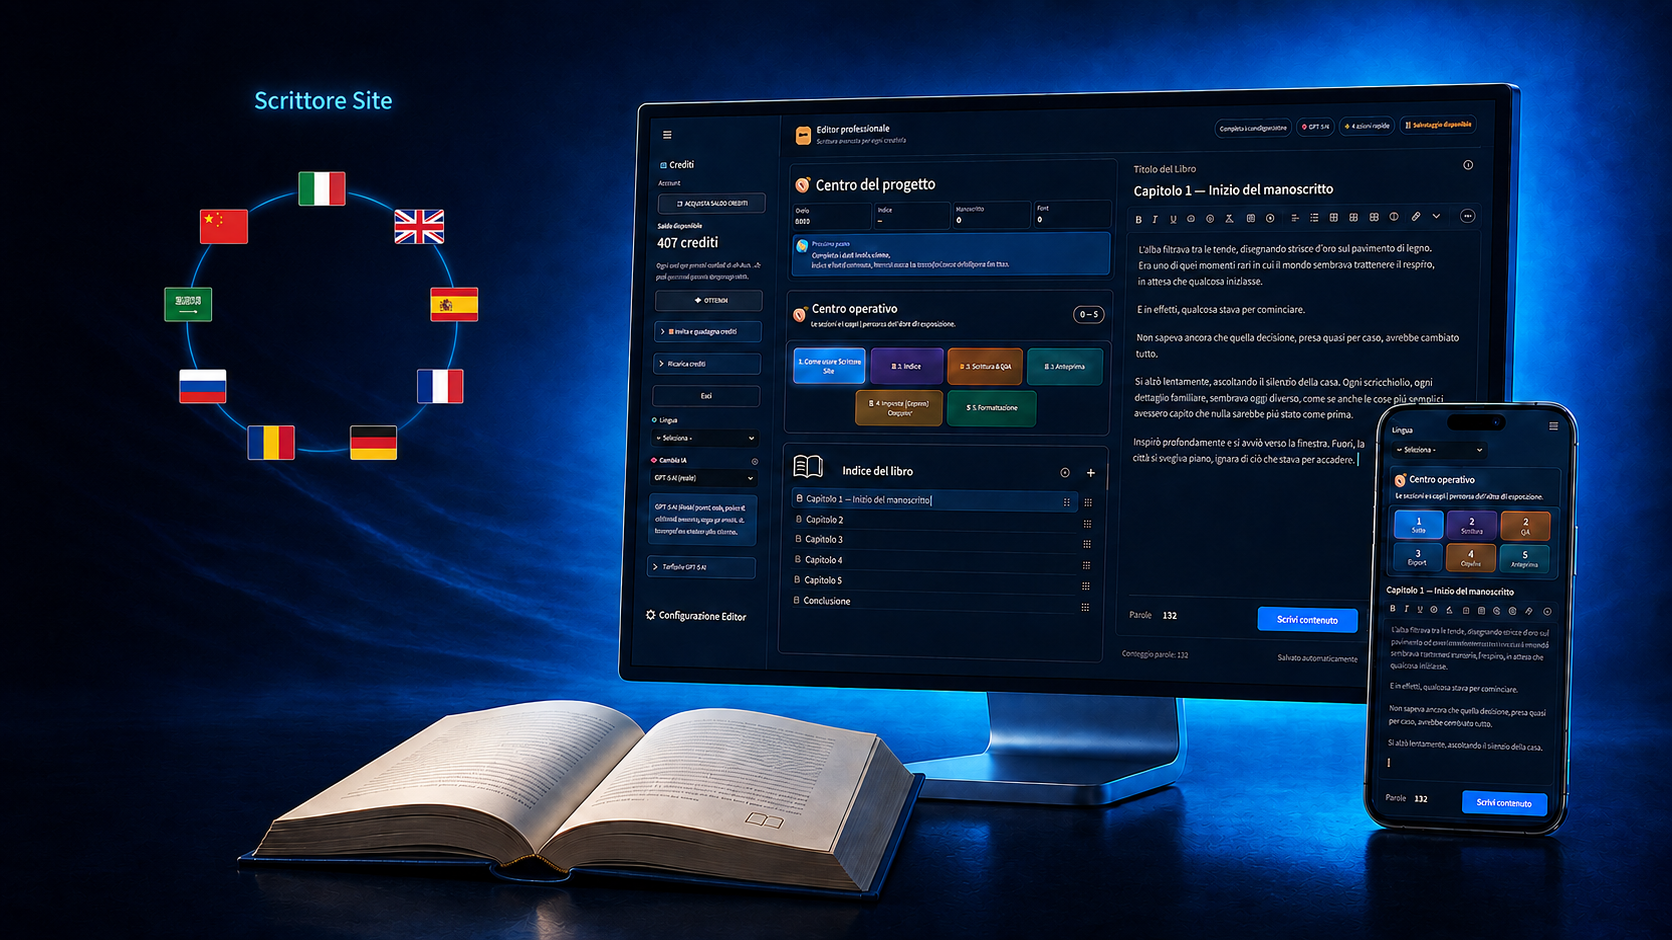
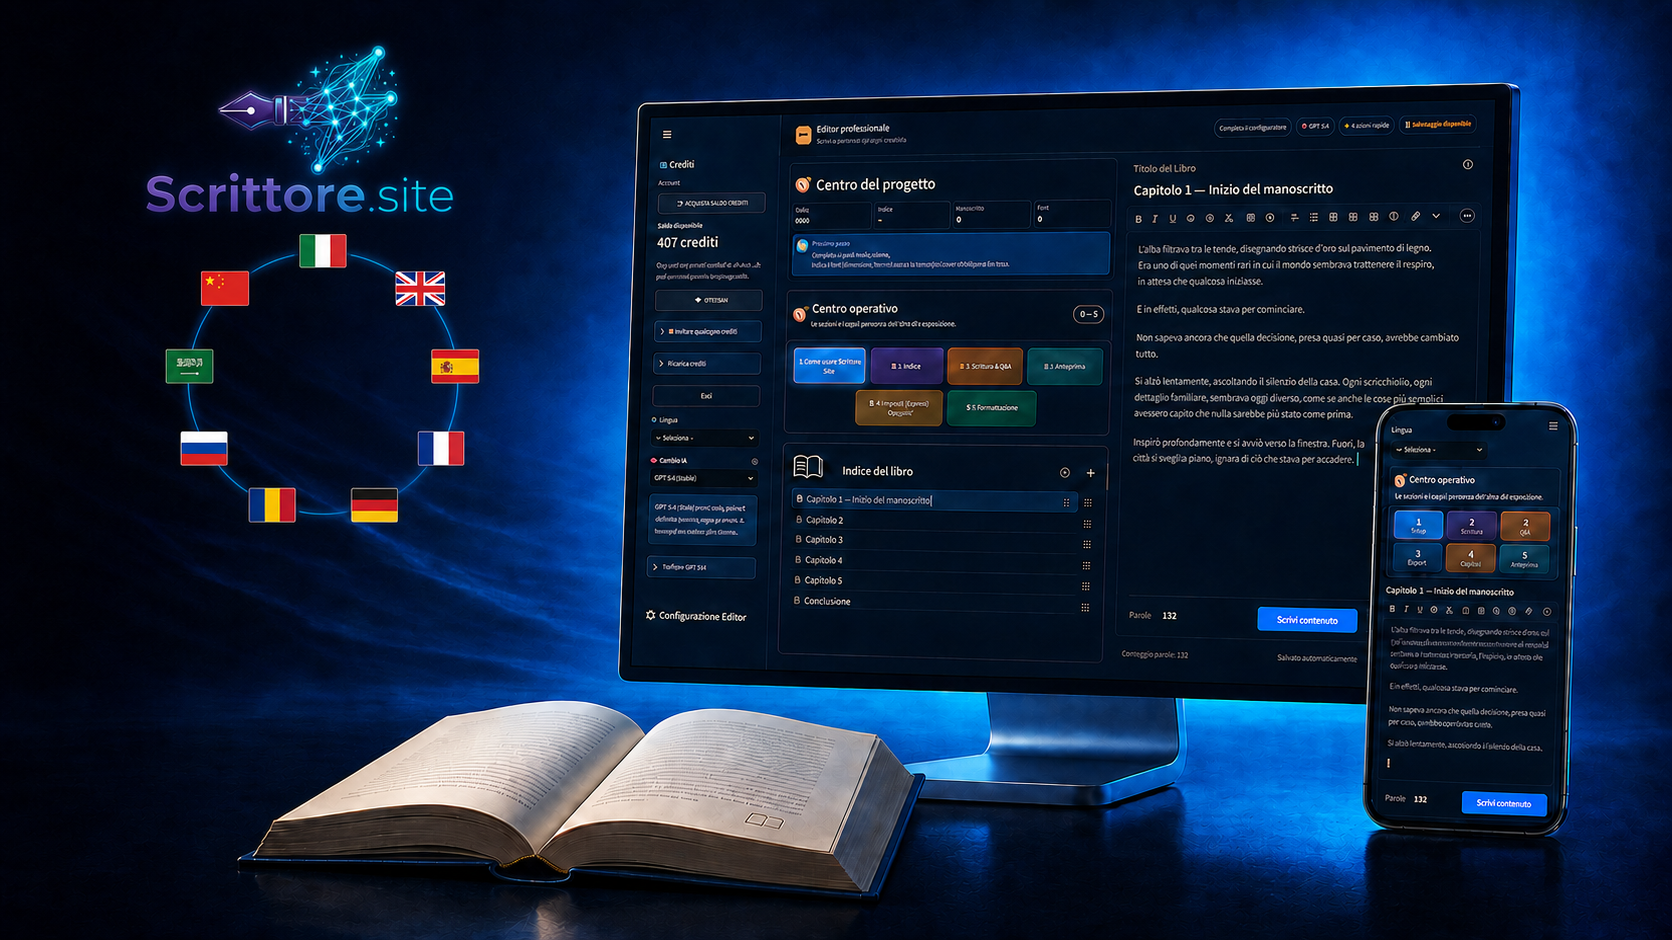
Aggiorna identita visiva e vantaggi della home

diff --git a/commercial_layer.py b/commercial_layer.py
@@ -1092,6 +1092,20 @@ HOME_COMPACT_COPY = {
     "中文": {"core": ("所需功能，一目了然", "从想法到书稿，只需四个清晰步骤。"), "cards": (("1", "设置项目", "语言、标题、类型、读者和目标。"), ("2", "创建目录", "资料来源、专业结构和针对性优化。"), ("3", "写作并改进", "一个小节、一章或整本书，由你决定。"), ("4", "检查并导出", "预览、检查、Word、PDF、KDP 和 CSV。")), "steps": (("1", "定义", "填写引导式简报。"), ("2", "写作", "生成、阅读和编辑。"), ("3", "保存", "按需保存并导出。")), "details": "全部功能与详细说明", "optional": "个性化与引导暂停（可选）"},
 }
 
+# Vantaggi esplicitati con misura: non sostituisce le capacità di una chat,
+# ma chiarisce il valore del flusso editoriale integrato di Scrittore Site.
+HOME_ADVANTAGES_COPY = {
+    "Italiano": ("I vantaggi di Scrittore Site", "Una classica chat AI può aiutare a scrivere. Scrittore Site trasforma quell'aiuto in un progetto editoriale ordinato e controllabile.", (("🧭", "Un percorso, non una pagina vuota", "Brief, fonti, indice, stesura e revisione restano collegati nello stesso progetto."), ("💾", "Memoria e recupero del lavoro", "Sidebar, indice e testi possono essere salvati, riaperti ed esportati in un CSV completo."), ("🔎", "Controlli editoriali nel punto giusto", "Coerenza, completezza, ripetizioni e qualità vengono verificati prima dell'esportazione."), ("📚", "Un risultato pronto da lavorare", "Anteprima, lettore vocale, Word, PDF e formattazione KDP aiutano a passare dalla bozza al manoscritto."))),
+    "English": ("Why choose Scrittore Site", "A standard AI chat can help you write. Scrittore Site turns that help into an organized, controllable editorial project.", (("🧭", "A workflow, not a blank page", "Brief, sources, outline, writing and review remain connected in one project."), ("💾", "Memory and project recovery", "Sidebar, outline and text can be saved, reopened and exported in a complete CSV."), ("🔎", "Editorial checks at the right time", "Consistency, completeness, repetition and quality are checked before export."), ("📚", "A manuscript ready to work on", "Preview, voice reader, Word, PDF and KDP formatting help move from draft to manuscript."))),
+    "Español": ("Las ventajas de Scrittore Site", "Una chat de IA clásica puede ayudarte a escribir. Scrittore Site convierte esa ayuda en un proyecto editorial ordenado y controlable.", (("🧭", "Un recorrido, no una página vacía", "Briefing, fuentes, índice, redacción y revisión permanecen conectados en un mismo proyecto."), ("💾", "Memoria y recuperación", "Barra lateral, índice y textos se pueden guardar, reabrir y exportar en un CSV completo."), ("🔎", "Controles editoriales en el momento adecuado", "Coherencia, integridad, repeticiones y calidad se comprueban antes de exportar."), ("📚", "Un manuscrito listo para trabajar", "Vista previa, lector de voz, Word, PDF y formato KDP ayudan a pasar del borrador al manuscrito."))),
+    "Français": ("Les avantages de Scrittore Site", "Une conversation IA classique peut aider à écrire. Scrittore Site transforme cette aide en projet éditorial ordonné et contrôlable.", (("🧭", "Un parcours, pas une page vide", "Brief, sources, plan, rédaction et révision restent liés dans un même projet."), ("💾", "Mémoire et reprise du projet", "Barre latérale, plan et textes peuvent être enregistrés, rouverts et exportés dans un CSV complet."), ("🔎", "Des contrôles éditoriaux au bon moment", "Cohérence, complétude, répétitions et qualité sont vérifiées avant l'export."), ("📚", "Un manuscrit prêt à être travaillé", "Aperçu, lecteur vocal, Word, PDF et mise en forme KDP aident à passer du brouillon au manuscrit."))),
+    "Deutsch": ("Die Vorteile von Scrittore Site", "Ein gewöhnlicher KI-Chat kann beim Schreiben helfen. Scrittore Site macht daraus ein geordnetes, kontrollierbares Redaktionsprojekt.", (("🧭", "Ein Ablauf statt einer leeren Seite", "Briefing, Quellen, Gliederung, Schreiben und Überarbeitung bleiben in einem Projekt verbunden."), ("💾", "Speichern und Wiederaufnehmen", "Seitenleiste, Gliederung und Texte können gespeichert, erneut geöffnet und als vollständige CSV exportiert werden."), ("🔎", "Redaktionelle Kontrolle zum richtigen Zeitpunkt", "Kohärenz, Vollständigkeit, Wiederholungen und Qualität werden vor dem Export geprüft."), ("📚", "Ein Manuskript zur Weiterarbeit", "Vorschau, Sprachleser, Word, PDF und KDP-Formatierung führen vom Entwurf zum Manuskript."))),
+    "Română": ("Avantajele Scrittore Site", "O conversație AI obișnuită te poate ajuta să scrii. Scrittore Site transformă acel ajutor într-un proiect editorial ordonat și controlabil.", (("🧭", "Un parcurs, nu o pagină goală", "Brief-ul, sursele, cuprinsul, scrierea și revizia rămân legate în același proiect."), ("💾", "Memorie și reluarea proiectului", "Bara laterală, cuprinsul și textele pot fi salvate, redeschise și exportate într-un CSV complet."), ("🔎", "Controale editoriale la momentul potrivit", "Coerența, completitudinea, repetițiile și calitatea sunt verificate înainte de export."), ("📚", "Un manuscris gata de lucru", "Previzualizarea, cititorul vocal, Word, PDF și formatarea KDP ajută trecerea de la schiță la manuscris."))),
+    "Русский": ("Преимущества Scrittore Site", "Обычный чат с ИИ может помочь писать. Scrittore Site превращает эту помощь в упорядоченный и контролируемый редакционный проект.", (("🧭", "Маршрут вместо пустой страницы", "Бриф, источники, план, текст и редактура остаются связанными в одном проекте."), ("💾", "Память и восстановление проекта", "Панель, план и тексты можно сохранить, открыть снова и экспортировать в полном CSV."), ("🔎", "Редакторские проверки вовремя", "Связность, полнота, повторы и качество проверяются перед экспортом."), ("📚", "Рукопись, готовая к работе", "Предпросмотр, голосовое чтение, Word, PDF и форматирование KDP помогают перейти от черновика к рукописи."))),
+    "العربية": ("مزايا Scrittore Site", "يمكن لمحادثة ذكاء اصطناعي عادية أن تساعدك في الكتابة. يحوّل Scrittore Site هذه المساعدة إلى مشروع تحريري منظم وقابل للتحكم.", (("🧭", "مسار لا صفحة فارغة", "يبقى الموجز والمصادر والفهرس والكتابة والمراجعة مترابطين في مشروع واحد."), ("💾", "ذاكرة واستعادة للمشروع", "يمكن حفظ الشريط الجانبي والفهرس والنصوص وإعادة فتحها وتصديرها في CSV كامل."), ("🔎", "فحوص تحريرية في الوقت المناسب", "يتم التحقق من الاتساق والاكتمال والتكرار والجودة قبل التصدير."), ("📚", "مخطوطة جاهزة للعمل", "المعاينة والقارئ الصوتي وWord وPDF وتنسيق KDP تساعدك على الانتقال من المسودة إلى المخطوطة."))),
+    "中文": ("Scrittore Site 的优势", "普通 AI 聊天可以协助写作。Scrittore Site 则将这种协助变成有序、可掌控的编辑项目。", (("🧭", "完整流程，而非空白页面", "简报、资料、目录、写作和审阅都在同一个项目中保持关联。"), ("💾", "记忆与项目恢复", "侧边栏、目录和文本可保存、重新打开并导出为完整 CSV。"), ("🔎", "适时的编辑检查", "导出前可检查连贯性、完整性、重复和质量。"), ("📚", "可继续打磨的书稿", "预览、语音阅读、Word、PDF 与 KDP 排版帮助你从草稿走向书稿。"))),
+}
+
 # Menu di orientamento della home: porta alle sezioni già presenti senza
 # introdurre nuove pagine né modificare login, crediti o flusso di acquisto.
 HOME_NAVIGATION = {
@@ -1156,9 +1170,9 @@ def _landing_page() -> None:
     st.markdown(
         """
         <style>
-          .stApp, [data-testid="stAppViewContainer"] {background:radial-gradient(circle at 8% 13%,rgba(147,197,253,.47),transparent 28%),radial-gradient(circle at 90% 8%,rgba(186,230,253,.62),transparent 30%),radial-gradient(circle at 76% 78%,rgba(219,234,254,.8),transparent 36%),linear-gradient(135deg,#edf7ff 0%,#f8fcff 47%,#e2f2ff 100%) !important; color:#102a43}
-          section.main > div.block-container {max-width:1380px !important; padding:.28rem 2.4rem 4.4rem !important}
-          [data-testid="stHorizontalBlock"]:has([data-testid="stSelectbox"]) {margin-top:0 !important; margin-bottom:.15rem !important}
+          .stApp, [data-testid="stAppViewContainer"] {background:radial-gradient(circle at 86% 8%,rgba(15,107,185,.5),transparent 27%),radial-gradient(circle at 13% 69%,rgba(13,83,145,.35),transparent 31%),linear-gradient(135deg,#030b15 0%,#071a2d 48%,#092540 100%) !important; color:#e7f2ff}
+          section.main > div.block-container {max-width:1380px !important; padding:0 2.4rem 4.4rem !important}
+          [data-testid="stHorizontalBlock"]:has([data-testid="stSelectbox"]) {margin-top:-.72rem !important; margin-bottom:.1rem !important}
           [data-testid="stHorizontalBlock"]:has([data-testid="stSelectbox"]) [data-testid="stSelectbox"] {margin-top:0 !important}
           .ss-hero-copy {padding:2.15rem .9rem .9rem 1.35rem; color:#102a43}
           .ss-kicker {font-weight:800; font-size:1.03rem; color:#1689e8; margin-bottom:1.1rem; letter-spacing:.01em}
@@ -1271,10 +1285,14 @@ def _landing_page() -> None:
           .ss-compact-step {display:flex; align-items:center; gap:.7rem; text-align:left; padding:.8rem .9rem; border:1px solid #c8ddeb; border-radius:14px; background:rgba(255,255,255,.9); color:#486581; font-size:.86rem; line-height:1.35}
           .ss-compact-step b {display:block; color:#102a43; font-size:.95rem}.ss-compact-number {flex:0 0 1.8rem; height:1.8rem; border-radius:50%; display:grid; place-items:center; background:#1689e8; color:#fff; font-weight:900}
           .ss-home-detail-caption {max-width:850px; margin:.1rem auto .7rem; text-align:center; color:#486581; font-size:.88rem}
+          .ss-advantages-intro {max-width:850px; margin:.25rem auto .8rem; text-align:center; color:#b9d4e8; line-height:1.48}
+          .ss-advantages {display:grid; grid-template-columns:repeat(2,minmax(0,1fr)); gap:12px; margin:.45rem 0 .25rem}
+          .ss-advantage {display:flex; gap:.75rem; padding:.85rem; border:1px solid rgba(125,211,252,.24); border-radius:13px; background:rgba(7,37,63,.72); color:#b9d4e8; line-height:1.4}
+          .ss-advantage > span {font-size:1.35rem; line-height:1.2}.ss-advantage b {display:block; color:#f4faff; margin-bottom:.18rem}.ss-advantage p {margin:0; font-size:.87rem}
           [data-testid="stExpander"] .ss-section {margin:1.1rem auto .3rem}
           [data-testid="stExpander"] .ss-priority-grid {margin:.65rem 0 1rem}
           @media (max-width:960px) {.ss-priority-grid{grid-template-columns:1fr 1fr}.ss-priority{min-height:0}}
-          @media (max-width:760px) {section.main > div.block-container {padding:.28rem 1rem 2.8rem !important}.ss-hero-copy {padding:1.5rem .4rem}.ss-title {font-size:4rem}.ss-section {margin-top:1.5rem}.ss-proof-grid {grid-template-columns:1fr}.ss-proof-action {margin-left:0}.ss-benefits {grid-template-columns:1fr}.ss-benefit {border-right:0;border-bottom:1px solid #d9e5f0}.ss-benefit:last-child {border-bottom:0}.ss-creator {min-height:120px}.ss-language-wrap {margin:0}.ss-priority-grid,.ss-ai-grid,.ss-compact-steps{grid-template-columns:1fr}.ss-quick-nav {position:static; border-radius:14px} [data-testid="stHorizontalBlock"]:has(.st-key-landing_signup) {flex-direction:column !important;gap:.65rem !important} [data-testid="stHorizontalBlock"]:has(.st-key-landing_signup) > div {width:100% !important;flex:1 1 100% !important}}
+          @media (max-width:760px) {section.main > div.block-container {padding:0 1rem 2.8rem !important}.ss-hero-copy {padding:1.5rem .4rem}.ss-title {font-size:4rem}.ss-section {margin-top:1.5rem}.ss-proof-grid {grid-template-columns:1fr}.ss-proof-action {margin-left:0}.ss-benefits {grid-template-columns:1fr}.ss-benefit {border-right:0;border-bottom:1px solid #d9e5f0}.ss-benefit:last-child {border-bottom:0}.ss-creator {min-height:120px}.ss-language-wrap {margin:0}.ss-priority-grid,.ss-ai-grid,.ss-compact-steps,.ss-advantages{grid-template-columns:1fr}.ss-quick-nav {position:static; border-radius:14px} [data-testid="stHorizontalBlock"]:has(.st-key-landing_signup) {flex-direction:column !important;gap:.65rem !important} [data-testid="stHorizontalBlock"]:has(.st-key-landing_signup) > div {width:100% !important;flex:1 1 100% !important}}
           [data-testid="stMain"] .stButton button {min-height:3.35rem; border-radius:11px; font-size:1.08rem;
             font-weight:800; border:1px solid #1689e8; background:#1689e8 !important;
             border-color:#1689e8 !important; color:#fff !important; box-shadow:0 6px 14px rgba(22,137,232,.18)}
@@ -1302,9 +1320,30 @@ def _landing_page() -> None:
           button[aria-label="Manage app"], a[aria-label="Manage app"] {display:none !important}
           [data-testid="stExpander"] {max-width:860px; margin:.5rem auto; background:#fff !important;
             border:1px solid #d9e5f0 !important; border-radius:12px !important; overflow:hidden}
+          /* Tema della home: riprende il blu notte dell'anteprima con contrasto
+             alto per testi, schede e controlli, senza influire sull'area privata. */
+          .ss-hero-copy {color:#e7f2ff !important}.ss-kicker {color:#7dd3fc !important}
+          .ss-version {background:rgba(12,46,76,.82) !important;border-color:rgba(125,211,252,.38) !important;color:#ccecff !important}
+          .ss-title {color:#61d4ff !important;text-shadow:0 2px 16px rgba(56,189,248,.3) !important}
+          .ss-headline,.ss-section h2 {color:#f8fbff !important}.ss-subtitle,.ss-muted,.ss-home-detail-caption {color:#b7d3eb !important}
+          .ss-bonus {background:rgba(7,70,80,.84) !important;border-color:rgba(45,212,191,.55) !important;color:#d5fff5 !important}
+          .ss-community-button {background:#123e64 !important;box-shadow:0 7px 16px rgba(0,0,0,.3) !important}.ss-community-button:hover {background:#195b8a !important}
+          .ss-quick-nav {background:rgba(5,22,39,.82) !important;border-color:rgba(125,211,252,.3) !important;box-shadow:0 9px 21px rgba(0,0,0,.27) !important}
+          .ss-quick-nav a {color:#d9efff !important}.ss-quick-nav a:hover {background:rgba(14,116,185,.35) !important;color:#fff !important}
+          .ss-languages-hero {background:linear-gradient(135deg,#063153,#0872a8 56%,#1599d1 100%) !important;border-color:#35b9ef !important}
+          .ss-card,.ss-priority,.ss-ai-card,.ss-feature-group,.ss-compact-step,.ss-step,.ss-trust {background:linear-gradient(145deg,rgba(10,42,70,.95),rgba(8,27,48,.96)) !important;border-color:rgba(125,211,252,.27) !important;box-shadow:0 9px 20px rgba(0,0,0,.22) !important;color:#c9deef !important}
+          .ss-card h3,.ss-priority b,.ss-feature-group h3,.ss-feature strong,.ss-compact-step b,.ss-benefit b,.ss-ai-card h3 {color:#f4faff !important}
+          .ss-card p,.ss-priority p,.ss-feature-group p,.ss-feature p,.ss-ai-card p,.ss-benefit {color:#b9d4e8 !important}
+          .ss-priority-tag,.ss-ai-card .ss-ai-cost {background:rgba(16,121,181,.25) !important;color:#9ce4ff !important;border:1px solid rgba(125,211,252,.2)}
+          .ss-benefits {background:rgba(6,27,47,.88) !important;border-color:rgba(125,211,252,.27) !important;box-shadow:0 10px 22px rgba(0,0,0,.22) !important}
+          .ss-benefit {border-color:rgba(125,211,252,.2) !important}.ss-package-engine {border-color:rgba(125,211,252,.2) !important;color:#b9dff4 !important}
+          .ss-price {color:#7dd3fc !important}.ss-credit-note {background:rgba(8,63,94,.78) !important;border-color:rgba(56,189,248,.35) !important;color:#d5efff !important}
+          [data-testid="stSelectbox"] label {color:#cdeaff !important}[data-testid="stSelectbox"] [data-baseweb="select"] > div {background:#0a2945 !important;border-color:#2a6e9c !important;color:#eaf6ff !important}
+          [data-testid="stExpander"] {background:rgba(6,27,47,.92) !important;border-color:rgba(125,211,252,.27) !important}
           [data-testid="stExpander"] details, [data-testid="stExpander"] summary,
-          [data-testid="stExpander"] [data-testid="stExpanderDetails"] {background:#fff !important; color:#102a43 !important}
-          [data-testid="stExpander"] summary:hover {background:#f5f9fd !important}
+          [data-testid="stExpander"] [data-testid="stExpanderDetails"] {background:transparent !important;color:#e5f3ff !important}
+          [data-testid="stExpander"] summary:hover {background:rgba(14,116,185,.18) !important}
+          [data-testid="stExpander"] [data-testid="stMarkdownContainer"] {color:#c9deef !important}
         </style>
         """,
         unsafe_allow_html=True,
@@ -1323,6 +1362,7 @@ def _landing_page() -> None:
     A = HOME_AI_ENGINES_COPY[home_language]
     P = HOME_PERSONALIZATION_COPY[home_language]
     K = HOME_COMPACT_COPY[home_language]
+    V = HOME_ADVANTAGES_COPY[home_language]
     N = HOME_NAVIGATION[home_language]
     lingua_titolo, lingua_testo = HOME_LANGUAGE_HIGHLIGHT[home_language]
     direzione_home = "rtl" if home_language == "العربية" else "ltr"
@@ -1339,13 +1379,23 @@ def _landing_page() -> None:
         unsafe_allow_html=True,
     )
 
+    base_dir = Path(__file__).resolve().parent
+    public_logo = base_dir / "assets" / "scrittore-site-logo.png"
     hero_copy, hero_visual = st.columns([0.42, 0.58], gap="large")
     with hero_copy:
         st.markdown(
             f"""<div class='ss-hero-copy'>
               <div class='ss-kicker'>{H['presenta']}</div>
               <div class='ss-version'>{C['version']}: {COMMERCIAL_VERSION}</div>
-              <h1 class='ss-title' style='color:#cf3345 !important'>Scrittore Site</h1>
+            </div>""",
+            unsafe_allow_html=True,
+        )
+        if public_logo.is_file():
+            st.image(str(public_logo), width=280)
+        else:
+            st.markdown("<h1 class='ss-title'>Scrittore Site</h1>", unsafe_allow_html=True)
+        st.markdown(
+            f"""<div class='ss-hero-copy ss-hero-copy-tail'>
               <div class='ss-title-line'></div>
               <div class='ss-headline'>{H['headline']}</div>
               <p class='ss-subtitle'>{H['subtitle']}</p>
@@ -1369,7 +1419,6 @@ def _landing_page() -> None:
             unsafe_allow_html=True,
         )
     with hero_visual:
-        base_dir = Path(__file__).resolve().parent
         preview_image = next(
             (candidate for candidate in (
                 base_dir / "assets" / "home-editor-desktop-mobile-writing-v2.png",
@@ -1421,6 +1470,16 @@ def _landing_page() -> None:
         f"{cards_html}</div><div class='ss-compact-steps' dir='{direzione_home}'>{steps_html}</div>",
         unsafe_allow_html=True,
     )
+    advantages_html = "".join(
+        f"<div class='ss-advantage'><span>{icon}</span><div><b>{title}</b><p>{text}</p></div></div>"
+        for icon, title, text in V[2]
+    )
+    with st.expander(f"✦ {V[0]}", expanded=False):
+        st.markdown(
+            f"<div class='ss-advantages-intro' dir='{direzione_home}'>{V[1]}</div>"
+            f"<div class='ss-advantages' dir='{direzione_home}'>{advantages_html}</div>",
+            unsafe_allow_html=True,
+        )
     st.markdown(
         f"<div id='ss-funzioni' class='ss-section' dir='{direzione_home}'><h2>{N[1]}</h2>"
         f"<p class='ss-home-detail-caption'>{K['details']}</p></div>",

diff --git a/app.py b/app.py
@@ -5728,7 +5728,13 @@ if st.session_state.get("autosave_snapshot_da_ripristinare"):
     ripristina_progetto_salvato()
 
 with st.sidebar:
-    # La lingua è sempre il primo comando: traduce subito crediti, menu e
+    # Il marchio identifica subito l'editor; sotto restano lingua, cervello e
+    # tutti i comandi nella stessa sequenza funzionale già usata dall'utente.
+    logo_sidebar = os.path.join(os.path.dirname(__file__), "assets", "scrittore-site-logo.png")
+    if os.path.isfile(logo_sidebar):
+        st.image(logo_sidebar, use_container_width=True)
+
+    # La lingua è il primo comando operativo: traduce subito crediti, menu e
     # configurazione, senza modificare i dati già salvati nel progetto.
     lingua_sidebar_precedente = str(st.session_state.get("editor_language") or "Italiano")
     lingua_scelta = st.selectbox(
